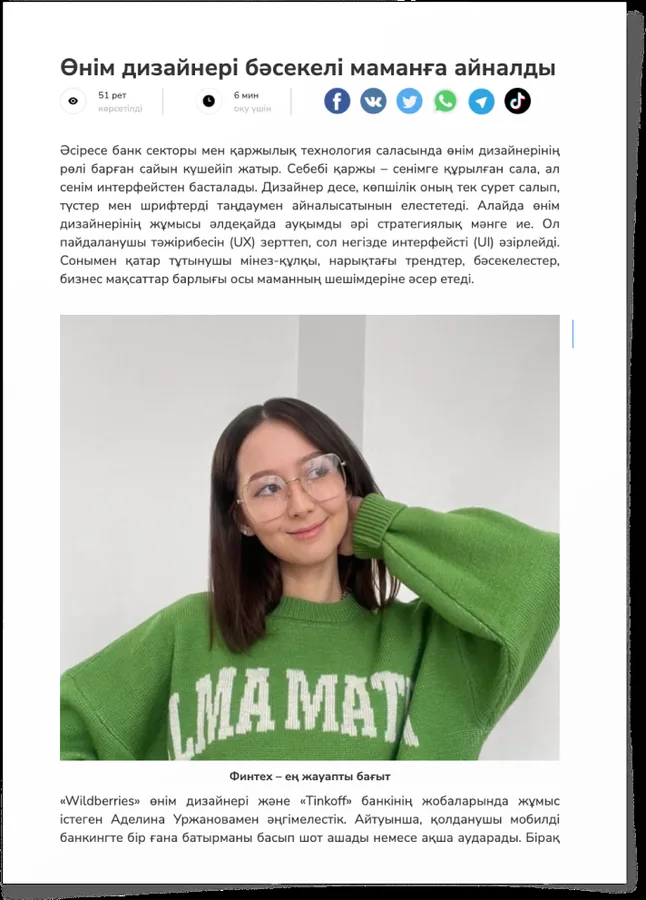
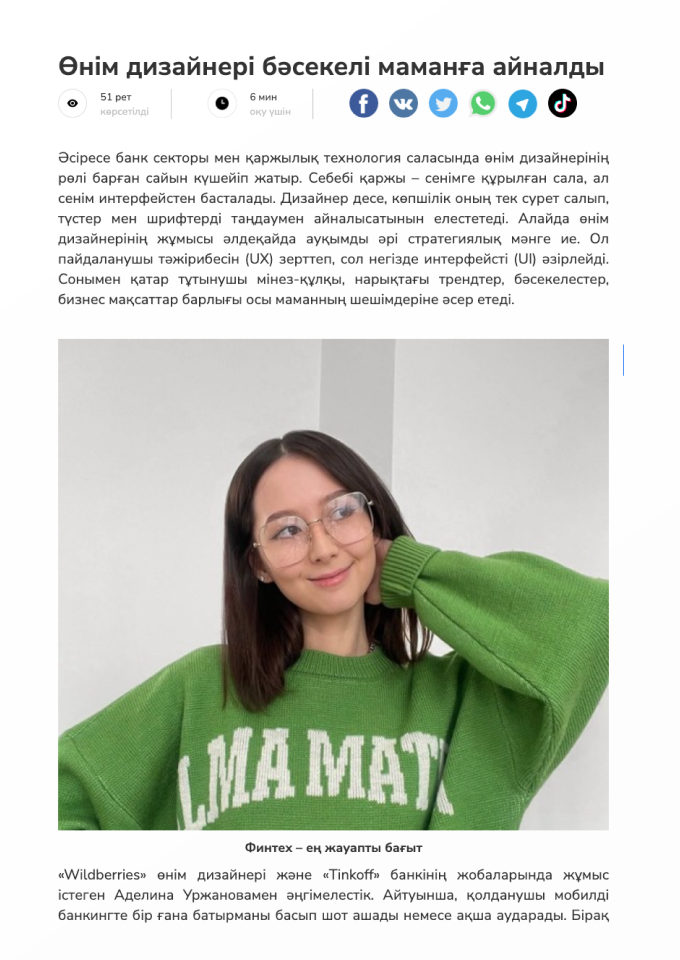
11

Changed region(s): [[0.0, 0.0, 1.0, 1.0], [0.0929, 0.0622, 0.8978, 0.1244], [0.6811, 0.6222, 0.7121, 0.6533]]

diff --git a/home.css b/home.css
@@ -294,6 +294,8 @@
 
 .tile.hovered .cover { transform: scale(1.04); }
 
+/* Reads as a printed flyer lying on the tile: a tight contact shadow where it
+   meets the surface, and a wide soft one for the height above it. */
 .cover.is-tilt {
   inset: auto;
   top: 50%;
@@ -301,11 +303,32 @@
   height: 70%;
   aspect-ratio: 166 / 227;
   transform: translate(-50%, -50%) scale(0.92) rotate(-4deg);
-  transition: transform 0.55s cubic-bezier(0.16, 1, 0.3, 1);
+  box-shadow:
+    0 1px 2px rgba(0, 0, 0, 0.10),
+    0 10px 24px rgba(0, 0, 0, 0.16);
+  transition: transform 0.55s cubic-bezier(0.16, 1, 0.3, 1),
+              box-shadow 0.55s cubic-bezier(0.16, 1, 0.3, 1);
 }
 
+/* Picked up off the surface: the contact shadow softens, the far one spreads. */
 .tile.hovered .cover.is-tilt {
   transform: translate(-50%, -50%) scale(1.06) rotate(0deg);
+  box-shadow:
+    0 3px 6px rgba(0, 0, 0, 0.10),
+    0 20px 40px rgba(0, 0, 0, 0.22);
+}
+
+/* On a dark tile the same shadow all but vanishes; deepen it to keep the lift. */
+[data-theme="dark"] .cover.is-tilt {
+  box-shadow:
+    0 1px 2px rgba(0, 0, 0, 0.5),
+    0 10px 24px rgba(0, 0, 0, 0.55);
+}
+
+[data-theme="dark"] .tile.hovered .cover.is-tilt {
+  box-shadow:
+    0 3px 6px rgba(0, 0, 0, 0.5),
+    0 20px 40px rgba(0, 0, 0, 0.65);
 }
 
 /* — Variant: certificate — */

diff --git a/animation-challenge.html b/animation-challenge.html
@@ -16,7 +16,8 @@
 <meta name="twitter:card" content="summary_large_image">
 <meta name="robots" content="index, follow">
 <meta name="theme-color" content="#ffffff">
-<link rel="icon" href="assets/avatar.png">
+<link rel="icon" href="assets/favicon.png">
+<link rel="apple-touch-icon" href="assets/avatar.png">
 <link rel="preload" as="image" href="assets/animation-hero.webp" fetchpriority="high">
 
 <!-- Paint the correct background before first frame so a dark-theme reload never flashes white. -->

diff --git a/airtrip.html b/airtrip.html
@@ -16,7 +16,8 @@
 <meta name="twitter:card" content="summary_large_image">
 <meta name="robots" content="index, follow">
 <meta name="theme-color" content="#ffffff">
-<link rel="icon" href="assets/avatar.png">
+<link rel="icon" href="assets/favicon.png">
+<link rel="apple-touch-icon" href="assets/avatar.png">
 <link rel="preload" as="image" href="assets/airtrip-hero.webp" fetchpriority="high">
 
 <!-- Paint the correct background before first frame so a dark-theme reload never flashes white. -->

diff --git a/payment-split.html b/payment-split.html
@@ -16,7 +16,8 @@
 <meta name="twitter:card" content="summary_large_image">
 <meta name="robots" content="index, follow">
 <meta name="theme-color" content="#ffffff">
-<link rel="icon" href="assets/avatar.png">
+<link rel="icon" href="assets/favicon.png">
+<link rel="apple-touch-icon" href="assets/avatar.png">
 <link rel="preload" as="image" href="assets/payment-hero.webp" fetchpriority="high">
 
 <!-- Paint the correct background before first frame so a dark-theme reload never flashes white. -->

diff --git a/desk-setup.html b/desk-setup.html
@@ -16,7 +16,8 @@
 <meta name="twitter:card" content="summary_large_image">
 <meta name="robots" content="index, follow">
 <meta name="theme-color" content="#ffffff">
-<link rel="icon" href="assets/avatar.png">
+<link rel="icon" href="assets/favicon.png">
+<link rel="apple-touch-icon" href="assets/avatar.png">
 <link rel="preload" as="image" href="assets/desk-hero.webp" fetchpriority="high">
 
 <!-- Paint the correct background before first frame so a dark-theme reload never flashes white. -->

diff --git a/mujo.html b/mujo.html
@@ -16,7 +16,8 @@
 <meta name="twitter:card" content="summary_large_image">
 <meta name="robots" content="index, follow">
 <meta name="theme-color" content="#ffffff">
-<link rel="icon" href="assets/avatar.png">
+<link rel="icon" href="assets/favicon.png">
+<link rel="apple-touch-icon" href="assets/avatar.png">
 <link rel="preload" as="image" href="assets/mujo-hero.webp" fetchpriority="high">
 
 <!-- Paint the correct background before first frame so a dark-theme reload never flashes white. -->

diff --git a/404.html b/404.html
@@ -7,7 +7,8 @@
 <title>Страница не найдена · Аделина Уржанова</title>
 <meta name="robots" content="noindex">
 <meta name="theme-color" content="#ffffff">
-<link rel="icon" href="/assets/avatar.png">
+<link rel="icon" href="/assets/favicon.png">
+<link rel="apple-touch-icon" href="/assets/avatar.png">
 
 <!-- Paint the correct background before first frame so a dark-theme reload never flashes white. -->
 <script>

diff --git a/activities.html b/activities.html
@@ -16,7 +16,8 @@
 <meta name="twitter:card" content="summary_large_image">
 <meta name="robots" content="index, follow">
 <meta name="theme-color" content="#ffffff">
-<link rel="icon" href="assets/avatar.png">
+<link rel="icon" href="assets/favicon.png">
+<link rel="apple-touch-icon" href="assets/avatar.png">
 
 <!-- Paint the correct background before first frame so a dark-theme reload never flashes white. -->
 <script>

diff --git a/index.html b/index.html
@@ -16,7 +16,8 @@
 <meta name="twitter:card" content="summary_large_image">
 <meta name="robots" content="index, follow">
 <meta name="theme-color" content="#ffffff">
-<link rel="icon" href="assets/avatar.png">
+<link rel="icon" href="assets/favicon.png">
+<link rel="apple-touch-icon" href="assets/avatar.png">
 
 <!-- Paint the correct background before first frame so a dark-theme reload never flashes white. -->
 <script>

diff --git a/optimize-assets.py b/optimize-assets.py
@@ -70,8 +70,12 @@ RULES = [
 
 # Left alone: SVG, Lottie JSON, and the favicon (browsers want a real PNG
 # there, and at 128px it is already tiny).
-SKIP = {"wb.svg", "og.webp"}
-KEEP_AS_PNG = {"avatar.png": (128, 95)}
+# cover-egemen.webp is stored lossless on purpose: it is a screenshot of a
+# page of text, and lossy compression turns small type to mush.
+SKIP = {"wb.svg", "og.webp", "cover-egemen.webp"}
+# Browsers want a real bitmap for the tab icon, and the sidebar avatar is
+# drawn at 44px; neither is worth a WebP.
+KEEP_AS_PNG = {"avatar.png": (128, 95), "favicon.png": (100, 95)}
 
 # Videos, re-encoded with ffmpeg when it is available. The bundle's clips are
 # encoded very inefficiently — the home page one drops from 985K to 113K at a

diff --git a/README.md b/README.md
@@ -207,9 +207,20 @@ the slideshow, and pins the avatars band.
 - **Three files do not come from the design bundle** and `copy-assets.sh`
   cannot regenerate them: `desk-hero-mobile.webp` (the phone-only desk photo),
   `wb-partners.svg` (the wordmark on the coming-soon tile, which replaced the
-  bundle's `wb.svg`), `activities-13.webp`, and `cover-egemen.webp` — the
+  bundle's `wb.svg`), `activities-13.webp`, `favicon.png` and `cover-egemen.webp` — the
   bundle ships that one as a 178px thumbnail, far too small for the tile, so
-  `copy-assets.sh` no longer copies it. They survive a rebuild — that
+  `copy-assets.sh` no longer copies it.
+- **`favicon.png` is a round 100px avatar with transparent corners**, supplied
+  as a finished file — do not re-crop or re-compress it. iOS fills transparent
+  corners with black on a home-screen icon, so `apple-touch-icon` points at the
+  opaque square `avatar.png` instead, which is also what the header draws.
+- **`cover-egemen.webp` is the one image stored lossless.** It is a screenshot
+  of a page of text, and lossy compression is at its worst on small type — at
+  quality 82 the grey captions visibly mushed. Lossless WebP is the same pixels
+  as the PNG it came from at 263KB rather than 437KB. It is in `SKIP` in
+  `optimize-assets.py` so a rebuild cannot re-compress it, and the tile's drop
+  shadow is CSS (`.cover.is-tilt`), not baked into the file — so it stays crisp
+  at any size and deepens for the dark theme. They survive a rebuild — that
   script only copies — but emptying `assets/` would lose them.
 - **Every `background-size: cover` needs `background-repeat: no-repeat`.**
   `cover` is rounded to whole pixels and on a fractional device pixel ratio can
